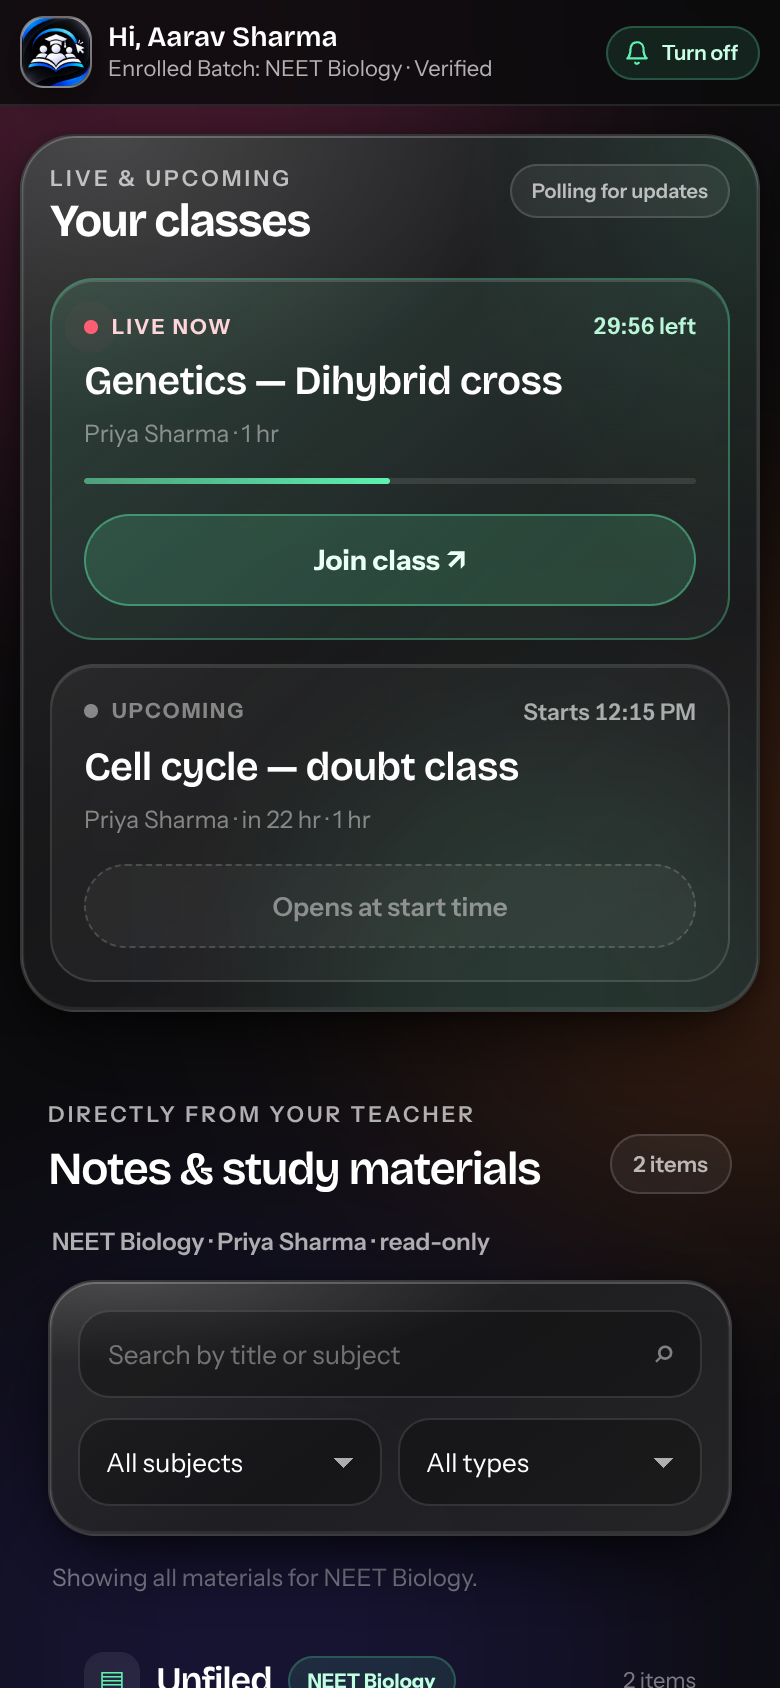
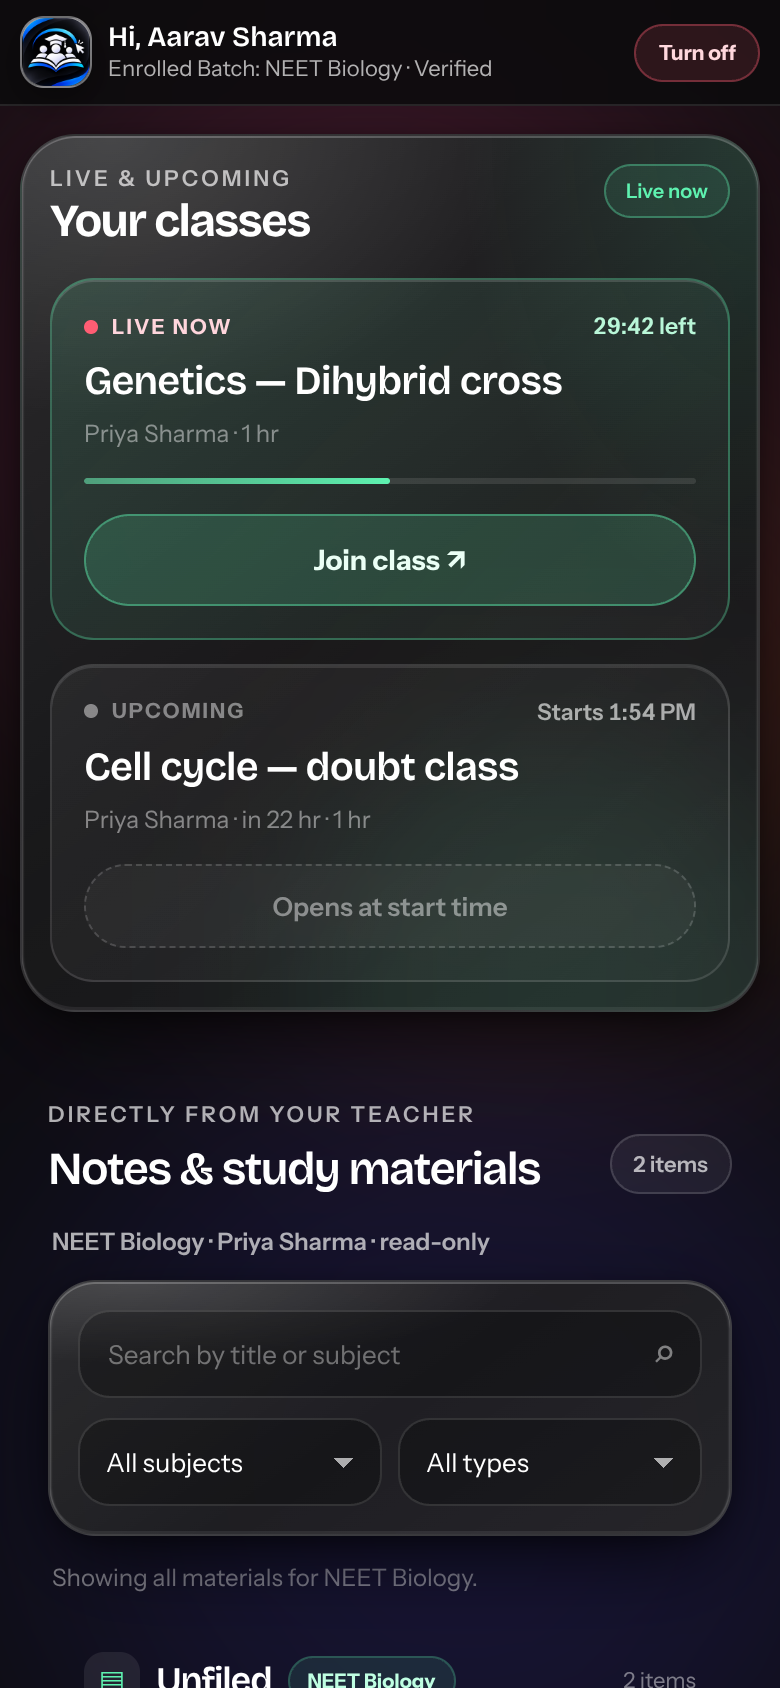
Student Hub: the alerts-on pill is red and text-only
- Turning notifications off is the destructive direction, so the top-bar pill now uses the app's
  danger red (border/background rgba(255,93,115,.34/.13), text #ffd7dd) instead of the green
  'alerts are on' tint.
- The bell icon is gone: the words carry the pill, so it is plain text with a touch more padding.
- Under 400px it still shortens to 'Turn off' so the name and batch line are never clipped.
- styles.css?v=17; PA-13 now pins the red rule and asserts the button contains no svg.
- README student-portal screenshot refreshed.

diff --git a/student-hub/styles.css b/student-hub/styles.css
@@ -270,38 +270,38 @@ h3 { margin: 0; font-size: 19px; line-height: 1.25; font-weight: 600; }
 .alerts-btn[hidden] { display: none; }
 .alerts-btn:disabled { opacity: .55; }
 
-/* Alerts already on: the card is replaced by one quiet pill that lives in the top bar, beside the
-   name. It is the whole state — tap it to turn alerts off again. The name truncates before the pill
-   does, so the pill never gets pushed off a 360px screen. */
+/* Alerts already on: the card is replaced by one pill in the top bar, beside the name. It is the
+   whole state — tap it to turn alerts off. Turning notifications off is the destructive direction,
+   so the pill carries the same red the app uses for "absent", and no bell: the words are enough.
+   The name truncates before the pill does, so it never gets pushed off a 360px screen. */
 .alerts-pill {
   display: inline-flex;
   align-items: center;
-  gap: 6px;
+  justify-content: center;
   flex: 0 0 auto;
   /* The top bar puts the identity first on phones (order: 1), so the pill claims 2 and stays right. */
   order: 2;
   margin-left: auto;
-  padding: 6px 11px 6px 9px;
+  padding: 7px 13px;
   border-radius: 999px;
-  border: 1px solid rgba(94, 242, 176, .24);
-  background: rgba(94, 242, 176, .10);
-  color: #c9ffe6;
+  border: 1px solid rgba(255, 93, 115, .34);
+  background: rgba(255, 93, 115, .13);
+  color: #ffd7dd;
   font-family: var(--font-sans);
   font-size: 10.5px;
-  font-weight: 600;
+  font-weight: 700;
   letter-spacing: -.01em;
   white-space: nowrap;
 }
-.alerts-pill-icon { display: inline-flex; color: var(--present); }
 .alerts-pill-label-short { display: none; }
-.alerts-pill:active { transform: scale(.99); }
+.alerts-pill:active { transform: scale(.99); background: rgba(255, 93, 115, .20); }
 .alerts-pill[hidden] { display: none; }
 .alerts-pill:disabled { opacity: .55; }
 
-/* 360-400px: the top bar also carries the brand mark and the student's name, so the pill keeps the
-   bell and shortens its label instead of shrinking the name to nothing. */
+/* Most phones are 360-400px wide and the top bar also carries the brand mark, the name and the
+   batch line: up to 400px the pill shortens to "Turn off" so none of that has to be clipped. */
 @media (max-width: 400px) {
-  .alerts-pill { padding: 6px 10px 6px 8px; }
+  .alerts-pill { padding: 7px 11px; }
   .alerts-pill-label { display: none; }
   .alerts-pill-label-short { display: inline; }
 }

diff --git a/student-hub/index.html b/student-hub/index.html
@@ -22,7 +22,7 @@
     <meta name="apple-mobile-web-app-status-bar-style" content="black-translucent" />
     <meta name="apple-mobile-web-app-title" content="Student Hub" />
     <link rel="manifest" href="./manifest.webmanifest?v=1" />
-    <link rel="stylesheet" href="./styles.css?v=16" />
+    <link rel="stylesheet" href="./styles.css?v=17" />
   </head>
   <body>
     <div class="ambient" aria-hidden="true"><span class="orb orb-a"></span><span class="orb orb-b"></span><span class="orb orb-c"></span></div>
@@ -38,12 +38,6 @@
         <!-- Alerts already on: the card below has nothing left to say, so the state and the way back
              off live in the top bar as one small pill — same toggle, one tap. -->
         <button id="alerts-pill" type="button" class="alerts-pill" aria-label="Turn off class and note alerts" hidden>
-          <span class="alerts-pill-icon" aria-hidden="true">
-            <svg viewBox="0 0 24 24" width="13" height="13" fill="none" stroke="currentColor" stroke-width="2" stroke-linecap="round" stroke-linejoin="round">
-              <path d="M18 8a6 6 0 1 0-12 0c0 7-3 9-3 9h18s-3-2-3-9" />
-              <path d="M13.7 21a2 2 0 0 1-3.4 0" />
-            </svg>
-          </span>
           <span class="alerts-pill-label">Turn off notifications</span>
           <span class="alerts-pill-label-short" aria-hidden="true">Turn off</span>
         </button>

diff --git a/tests/pushAlerts.test.ts b/tests/pushAlerts.test.ts
@@ -229,6 +229,17 @@ describe('Student Hub push alerts (PA)', () => {
     // Top-bar sizing: it must not wrap onto a second line or be pushed off a 360px screen.
     expect(css).toMatch(/\.alerts-pill \{[^}]*flex: 0 0 auto/)
     expect(css).toMatch(/\.alerts-pill \{[^}]*white-space: nowrap/)
+
+    // Turning alerts off is the destructive direction: red, not the green "alerts are on" tint.
+    const rule = css.match(/\.alerts-pill \{([^}]*)\}/)?.[1] ?? ''
+    expect(rule).toMatch(/border: 1px solid rgba\(255, 93, 115/)
+    expect(rule).toMatch(/background: rgba\(255, 93, 115/)
+    expect(rule).not.toMatch(/94, 242, 176/)
+
+    // No bell: the words alone carry the pill, so the markup inside the button has no svg.
+    const button = html.slice(html.indexOf('<button id="alerts-pill"'), html.indexOf('</button>', html.indexOf('<button id="alerts-pill"')))
+    expect(button).not.toContain('<svg')
+    expect(button).toContain('Turn off notifications')
     // display: grid on the card beats the UA [hidden] rule, so hiding it has to be explicit.
     expect(css).toContain('.alerts-card[hidden] { display: none; }')
     // hidden wins over the inline-flex display, or the closed pill would still paint.

diff --git a/tests/studentHub.test.tsx b/tests/studentHub.test.tsx
@@ -1189,7 +1189,7 @@ describe('Student Portal and RLS (SP)', () => {
     expect(css).not.toContain('.form-field')
 
     // The stylesheet is cache-busted so the phone actually fetches the change.
-    expect(html).toMatch(/styles\.css\?v=16/)
+    expect(html).toMatch(/styles\.css\?v=17/)
     expect(html).toMatch(/portal\.js\?v=14/)
   })
 
